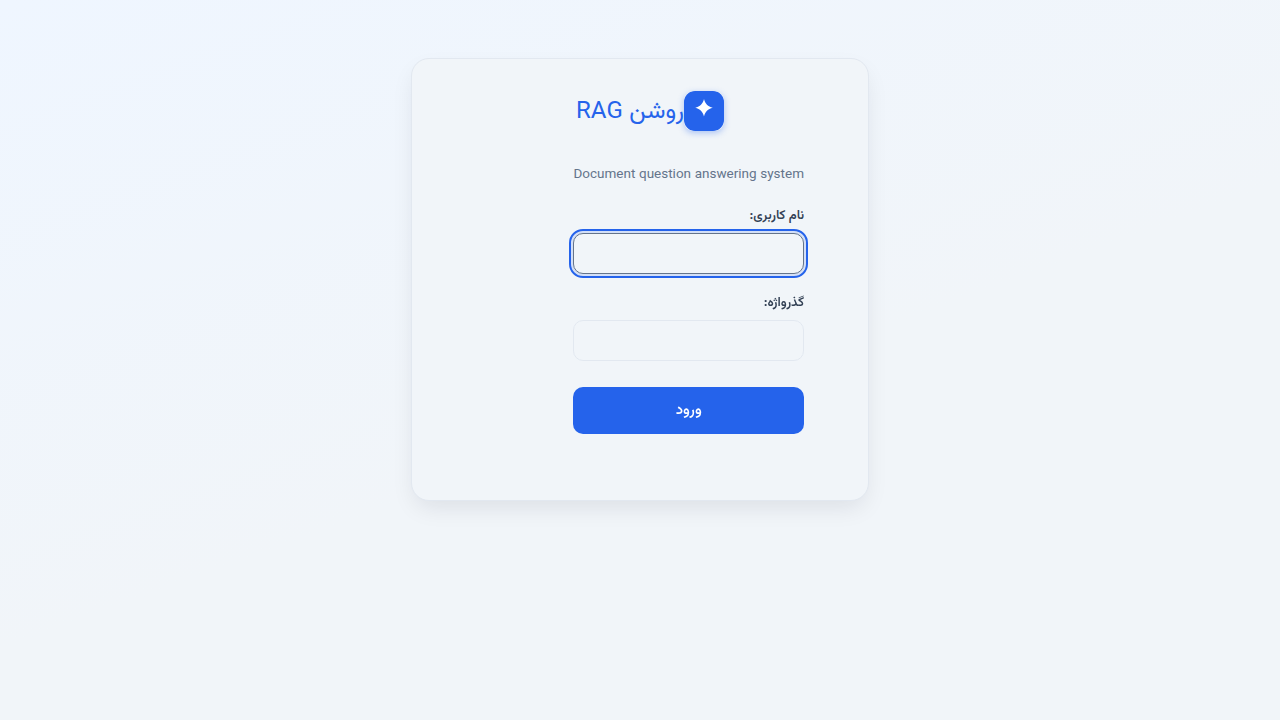
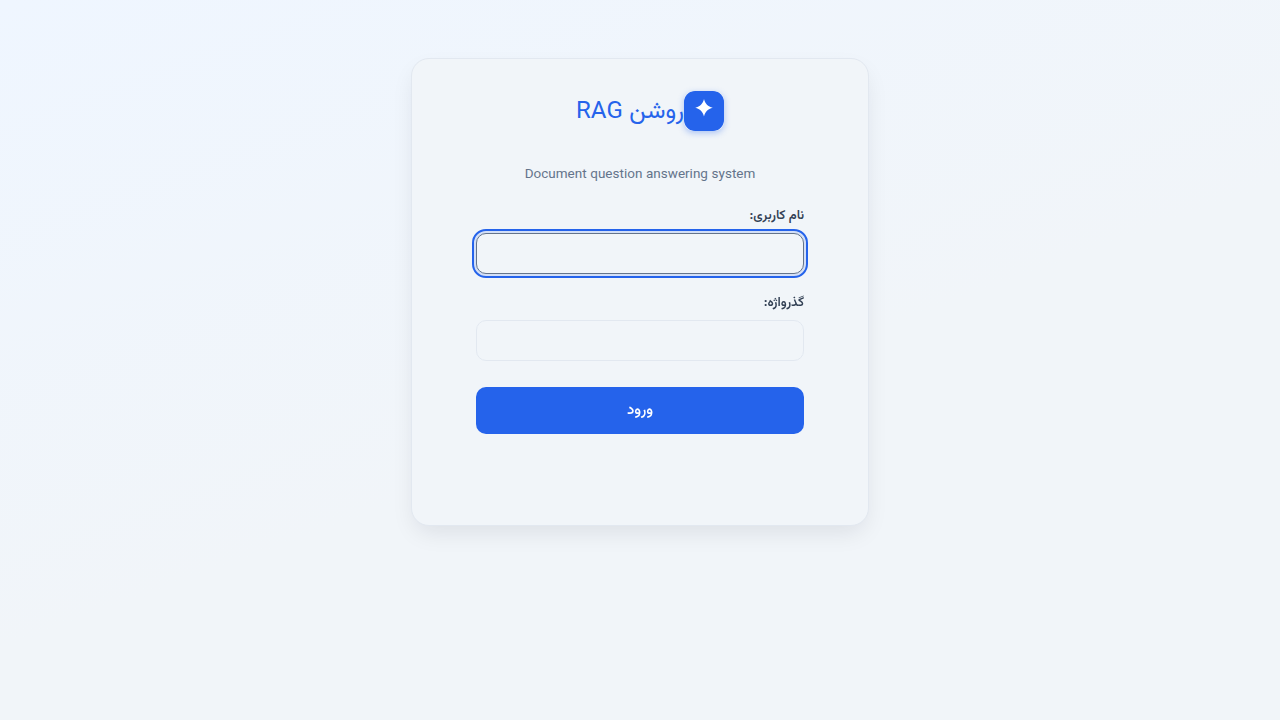
Fix light-mode font fallback and center login form in admin theme

diff --git a/static/admin/css/roshan-admin.css b/static/admin/css/roshan-admin.css
@@ -27,7 +27,9 @@
     font-display: swap;
 }
 
-:root {
+:root,
+html[data-theme="light"],
+html[data-theme="auto"] {
     --primary: #2563eb;
     --secondary: #1e293b;
     --accent: #f59e0b;
@@ -776,14 +778,21 @@ body.login .login-brand .roshan-logo {
     height: 40px;
 }
 
+body.login #main {
+    display: block;
+}
+
 body.login #content {
     padding: 0;
     margin: 0;
+    width: 100%;
+    box-sizing: border-box;
 }
 
 body.login #content-main {
     width: auto;
     margin: 0;
+    float: none;
 }
 
 body.login .login-subtitle {
